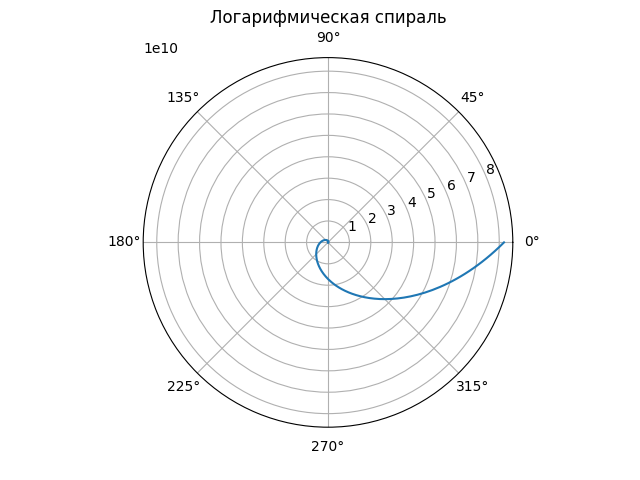
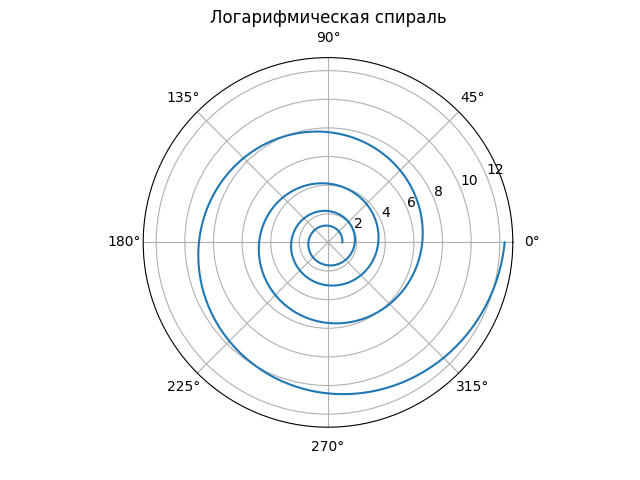
fdfsdfd

diff --git a/task_4.py b/task_4.py
@@ -1,34 +1,42 @@
 import numpy as np
 import matplotlib.pyplot as plt
 
-def plot_logarithmic_spiral(b = 4):
-    phi = np.linspace(0, 8*np.pi, 1000)
-    r = np.exp**(b * phi)
+def plot_logarithmic_spiral(b):
+    c = np.linspace(0, 8*np.pi, 1000)
+    r = 2.718 ** (b * c)
     
-    plt.polar(phi, r)
+    plt.polar(c, r)
     plt.title('Логарифмическая спираль')
     plt.savefig('fig_task_4_1.png')
 
-def plot_archimedean_spiral(k = 1):
-    phi = np.linspace(0, 8*np.pi, 1000)
-    r = k * phi
-    
-    plt.polar(phi, r)
+plot_logarithmic_spiral(0.1)
+
+def plot_arhimedova_spiral(k):
+    c = np.linspace(0, 8*np.pi, 1000)
+    r = k * c
+
+    plt.polar(c, r)
     plt.title('Архимедова спираль')
     plt.savefig('fig_task_4_2.png')
 
-def plot_staff_spiral(k = 2):
-    phi = np.linspace(0.01, 8*np.pi, 1000)
-    r = k / np.sqrt(phi)
-    
-    plt.polar(phi, r)
-    plt.title('Спираль «жезл»')
+plot_arhimedova_spiral(2)
+
+def plot_rod(k):
+    c = np.linspace(0.01, 8*np.pi, 1000)
+    r = k / (np.sqrt(c))
+
+    plt.polar(c, r)
+    plt.title('Жезл')
     plt.savefig('fig_task_4_3.png')
 
-def plot_polar_rose(k = 0.2):
-    phi = np.linspace(0, 2*np.pi, 1000)
-    r = np.sin(k * phi)
-    
-    plt.polar(phi, r)
+plot_rod(1)
+
+def plot_rose(k):
+    c = np.linspace(0.01, 8*np.pi, 1000)
+    r = np.sin(k * c)
+
+    plt.polar(c, r)
     plt.title('Роза')
     plt.savefig('fig_task_4_4.png')
+
+plot_rose(10)
